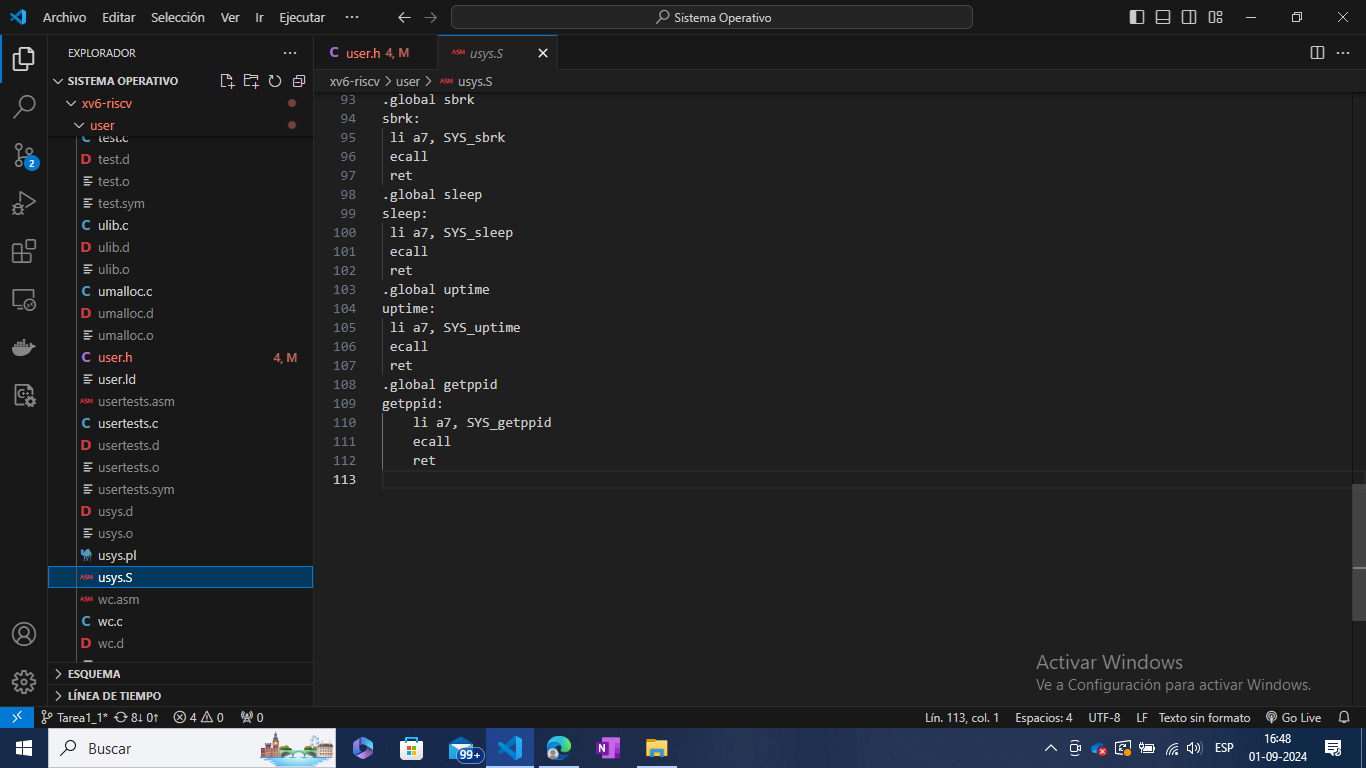
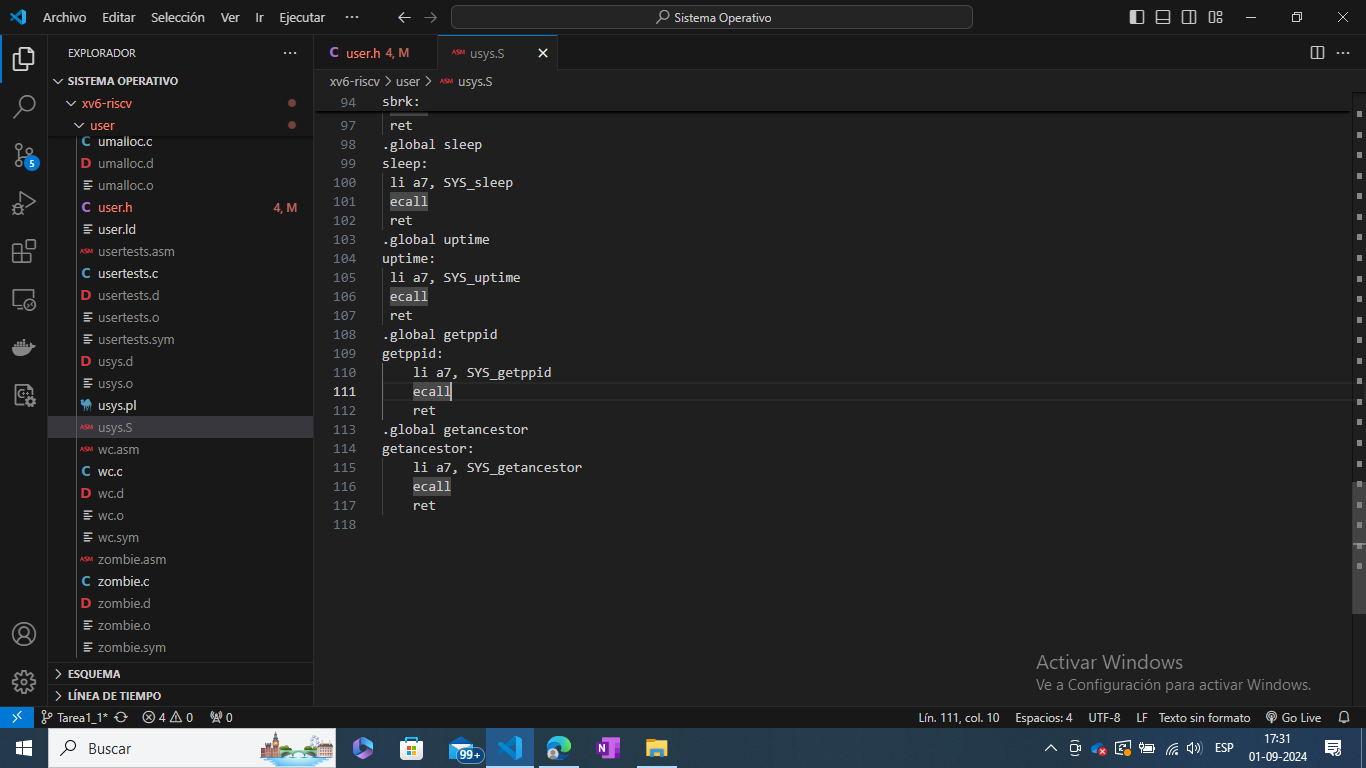
Modificaciones Tarea1_2

diff --git a/user/test2.c b/user/test2.c
@@ -1,0 +1,30 @@
+#include "types.h"
+#include "user.h"
+
+int main(void) {
+    int generation = 0;
+    int ancestor_pid = getancestor(generation);
+    if (ancestor_pid < 0) {
+        printf("E: No ancestor found for generation %d\n", generation);
+    } else {
+        printf("Ancestor PID for generation %d: %d\n", generation, ancestor_pid);
+    }
+
+    generation = 1;
+    ancestor_pid = getancestor(generation);
+    if (ancestor_pid < 0) {
+        printf("E: No ancestor found for generation %d\n", generation);
+    } else {
+        printf("Ancestor PID for generation %d: %d\n", generation, ancestor_pid);
+    }
+
+    generation = 5;
+    ancestor_pid = getancestor(generation);
+    if (ancestor_pid < 0) {
+        printf("E: No ancestor found for generation %d\n", generation);
+    } else {
+        printf("Ancestor PID for generation %d: %d\n", generation, ancestor_pid);
+    }
+
+    exit(0);
+}

diff --git a/kernel/syscall.c b/kernel/syscall.c
@@ -103,12 +103,14 @@ extern uint64 sys_mkdir(void);
 extern uint64 sys_close(void);
 //-------------------------------------------------------------------------------------
 extern uint64 sys_getppid(void);
+extern uint64 sys_getancestor(void);
 //-------------------------------------------------------------------------------------
 // An array mapping syscall numbers from syscall.h
 // to the function that handles the system call.
 static uint64 (*syscalls[])(void) = {
 //------------
 [SYS_getppid] sys_getppid,
+[SYS_getancestor] sys_getancestor,
 //------------
 [SYS_fork]    sys_fork,
 [SYS_exit]    sys_exit,

diff --git a/kernel/proc.c b/kernel/proc.c
@@ -699,3 +699,18 @@ uint64 sys_getppid(void) {
     return myproc()->parent->pid;
 }
 
+uint64 sys_getancestor(void) {
+    // El primer argumento de la llamada al sistema está en el registro a0
+    int generation = myproc()->trapframe->a0;
+    
+    struct proc *p = myproc();
+
+    for (int i = 0; i < generation; i++) {
+        if (p->parent == 0) {
+            return -1; // No hay más ancestros
+        }
+        p = p->parent;
+    }
+
+    return p->pid; // Retorna el PID del ancestro
+}

diff --git a/user/user.h b/user/user.h
@@ -24,8 +24,7 @@ int sleep(int);
 int uptime(void);
 //----------------------------------------------------------------------------
 int getppid(void);
-
-
+int getancestor(int generation);
 
 
 // ulib.c

diff --git a/kernel/syscall.h b/kernel/syscall.h
@@ -21,4 +21,5 @@
 #define SYS_mkdir  20
 #define SYS_close  21
 #define SYS_getppid 22
+#define SYS_getancestor 23
 

diff --git a/INFORME.md b/INFORME.md
@@ -1,9 +1,9 @@
-Para la tarea 1 Parte 1
-Lo primero fué definir en syscall.h el número de la llamada de la nueva función "getppid"
+Para la tarea 1 Parte 2
+Lo primero fué definir en syscall.h el número de la llamada de la nueva función "getancestor"
 
 ![Primer Cambio](Capturas/Captura1.png)
 
-En segundo lugar, editar proc.c para agregar la función "sys_getppid" la cual retorna el ID del proceso padre del proceso que la invoca.
+En segundo lugar, editar proc.c para agregar la función "sys_getancestor" la cual retorna el ID de la generacion "generation" anterior del proceso que la invoca ciendo 0 el proceso acual y devolviendo -1 si no hay más tantas generaciones anteriores.
 
 ![Segundo Cambio](Capturas/Captura2.png)
 
@@ -13,20 +13,20 @@ En el tercer paso se editó el archivo syscall.c para agregar la nueva llamada a
 
 Luego se buscó modificar el archivo user.h para declarar la nueva función.
 
-![Tercer Cambio](Capturas/Captura4.png)
+![Cuarto Cambio](Capturas/Captura4.png)
 
 En el cuarto paso se modificó el archivo usys.s para añadir la llamada a Sistema.
 
-![Tercer Cambio](Capturas/Captura5.png)
+![Quinto Cambio](Capturas/Captura5.png)
 
-Por último se creo el archivo test.c en la carpeta user para probar la llamada.
+Por último se creo el archivo test.c en la carpeta user para probar la llamada con las generaciones 0, 1 y 5.
 
-![Tercer Cambio](Capturas/Captura6.png)
+![Sexto Cambio](Capturas/Captura6.png)
 
-Como paso adicional para realizar el test se modifico el archivo Makefile para agregar el archivo test.c
+Como paso adicional para realizar el test se modifico el archivo Makefile para agregar el archivo test2.c
 
-![Tercer Cambio](Capturas/Captura7.png)
+![Septimo Cambio](Capturas/Captura7.png)
 
 Prueba de la nueva función.
 
-![Tercer Cambio](Capturas/Captura8.png)
+![Octabo Cambio](Capturas/Captura8.png)
